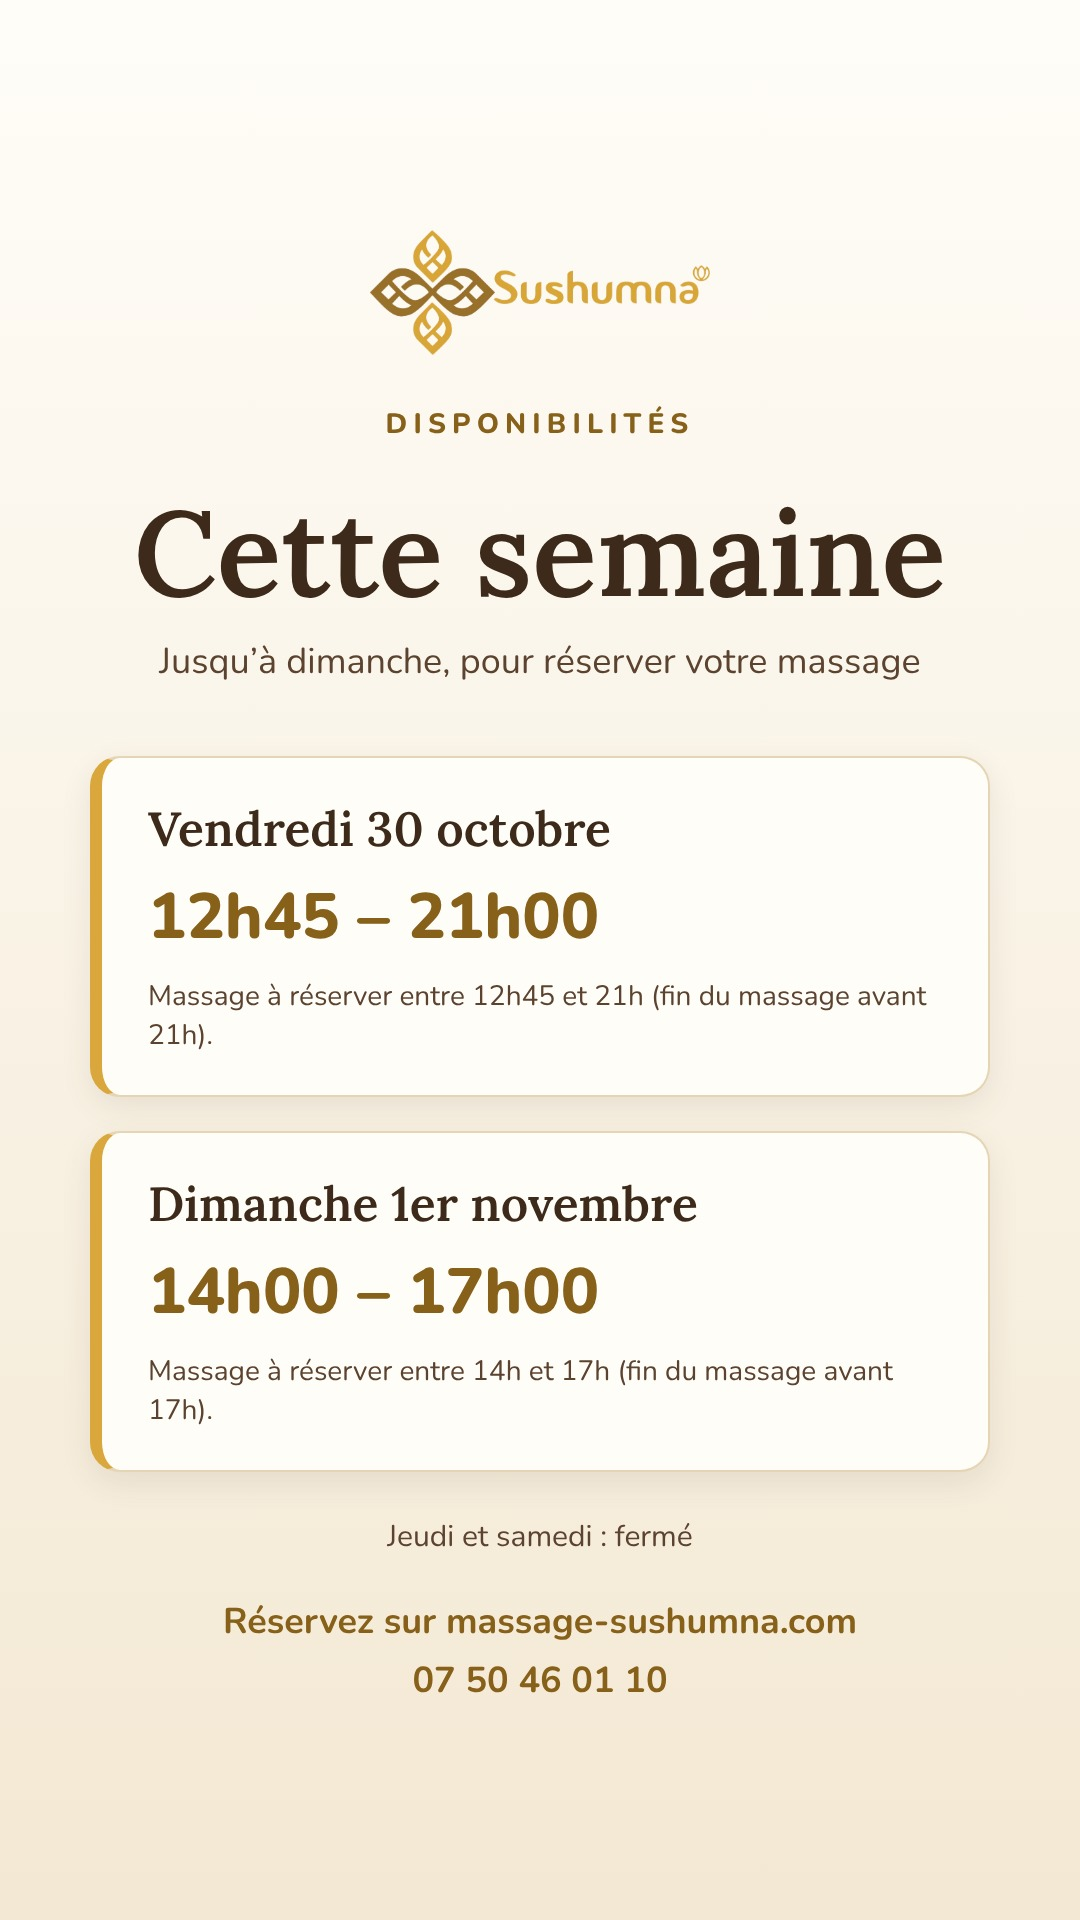
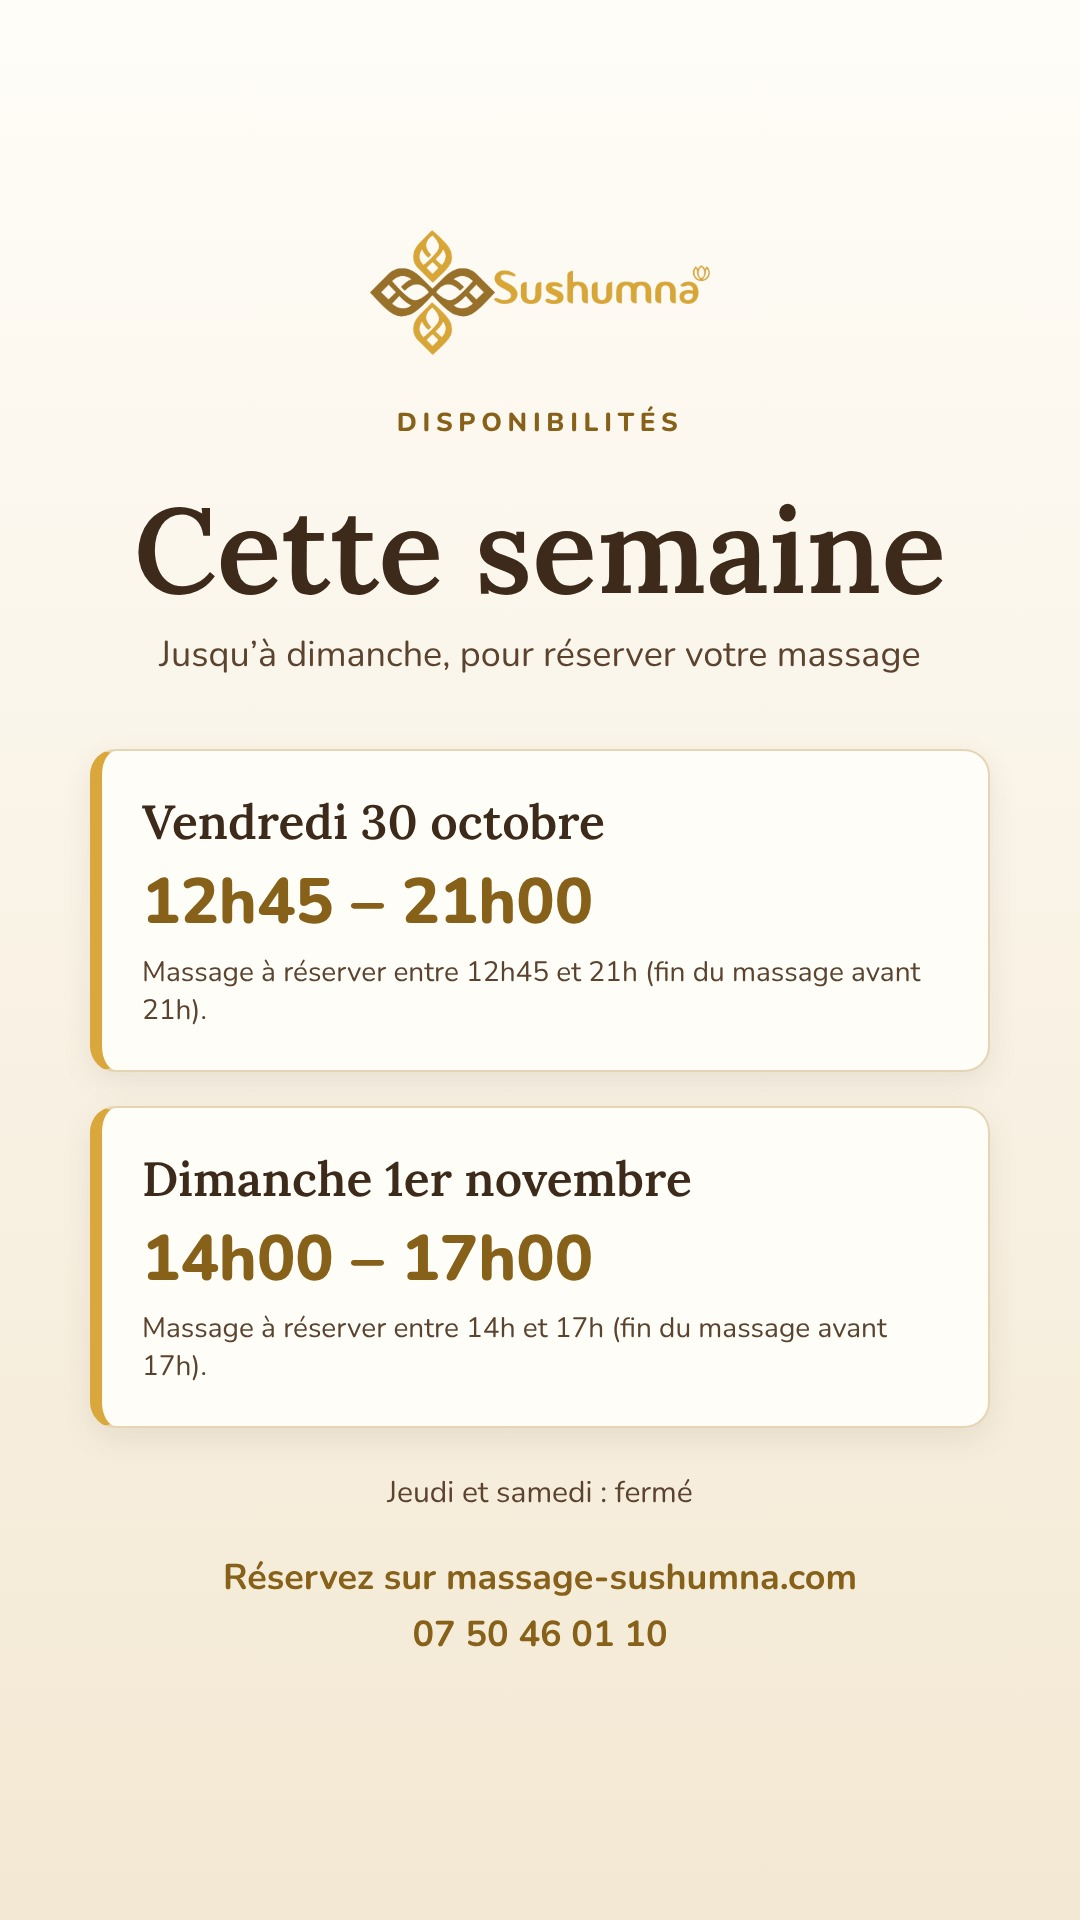
Graphisme : planning de la semaine prochaine en story (2 au 8 novembre)
Claude-Session: https://claude.ai/code/session_01FhKW6d7NffjTyYvYf6zG3G

diff --git a/graphisme/sources/65-planning-semaine-prochaine.html b/graphisme/sources/65-planning-semaine-prochaine.html
@@ -1,0 +1,61 @@
+<!doctype html>
+<html lang="fr">
+<head>
+<meta charset="utf-8">
+<meta name="viewport" content="width=device-width, initial-scale=1">
+<link rel="preconnect" href="https://fonts.googleapis.com">
+<link rel="preconnect" href="https://fonts.gstatic.com" crossorigin>
+<link href="https://fonts.googleapis.com/css2?family=Lora:ital,wght@0,500;0,600;1,500&family=Nunito:wght@400;600;700;800&family=Great+Vibes&display=swap" rel="stylesheet">
+<style>
+:root{--sable:#fbf6ec;--sable-2:#f3e8d3;--creme:#fffdf8;--bordure:#e6d5b5;--or:#d9a73b;--or-clair:#f6e3b4;
+--or-texte:#87601a;--brun:#3d2a1b;--brun-doux:#5c4330;--brun-logo:#9a712f;
+--titres:"Lora",Georgia,serif;--texte:"Nunito","Segoe UI",Arial,sans-serif;--script:"Great Vibes",cursive}
+*{box-sizing:border-box}
+html,body{margin:0;padding:0}
+body{width:var(--w);height:var(--h);overflow:hidden;background:var(--creme);color:var(--brun);font-family:var(--texte)}
+.page{position:relative;width:var(--w);height:var(--h);overflow:hidden;display:flex;flex-direction:column;align-items:center;justify-content:center;text-align:center}
+.ico{width:1em;height:1em;flex:none;color:var(--or-texte)}
+.titre{font-family:var(--titres);font-weight:600;line-height:1.15;margin:0;color:var(--brun)}
+.surtitre{margin:0;font-weight:800;text-transform:uppercase;letter-spacing:.22em;color:var(--or-texte)}
+.etoiles{margin:0;color:#b9801a;letter-spacing:.14em}
+.sous{margin:0;color:var(--brun-doux)}
+.page{justify-content:flex-start;padding:200px 90px 200px;background:linear-gradient(180deg,var(--creme) 0%,var(--sable-2) 100%)}
+.logo{width:260px;height:auto;align-self:center}
+.titre{font-size:96px;margin:26px 0 12px;text-align:center}
+.sous{font-size:32px;color:var(--brun-doux);margin:0 0 40px;text-align:center}
+.jour{width:100%;background:var(--creme);border:2px solid var(--bordure);border-left:12px solid var(--or);border-radius:26px;padding:24px 40px;margin-bottom:22px;text-align:left;box-shadow:0 10px 30px rgba(92,67,48,.10)}
+.jour h2{font-family:var(--titres);font-weight:600;font-size:38px;margin:0 0 6px;color:var(--brun)}
+.jour .horaires{font-size:52px;font-weight:800;color:var(--or-texte);margin:0 0 6px;line-height:1.15}
+.jour p{font-size:24px;line-height:1.35;color:var(--brun-doux);margin:0}
+.ferme{font-size:28px;color:var(--brun-doux);text-align:center;margin:4px 0 26px}</style>
+</head>
+<body style="--w:1080px;--h:1920px">
+<svg width="0" height="0" style="position:absolute" aria-hidden="true">
+  <symbol id="tel" viewBox="0 0 24 24"><path fill="none" stroke="currentColor" stroke-width="2" stroke-linecap="round" stroke-linejoin="round" d="M22 16.9v3a2 2 0 0 1-2.2 2 19.8 19.8 0 0 1-8.6-3.1 19.5 19.5 0 0 1-6-6A19.8 19.8 0 0 1 2.1 4.2 2 2 0 0 1 4.1 2h3a2 2 0 0 1 2 1.7c.1 1 .4 1.9.7 2.8a2 2 0 0 1-.5 2.1L8 9.9a16 16 0 0 0 6 6l1.3-1.3a2 2 0 0 1 2.1-.4c.9.3 1.8.6 2.8.7a2 2 0 0 1 1.7 2z"/></symbol>
+  <symbol id="mail" viewBox="0 0 24 24"><g fill="none" stroke="currentColor" stroke-width="2" stroke-linecap="round" stroke-linejoin="round"><rect x="2" y="4" width="20" height="16" rx="2"/><path d="m22 7-10 6L2 7"/></g></symbol>
+  <symbol id="whatsapp" viewBox="0 0 24 24"><g fill="none" stroke="currentColor" stroke-width="2" stroke-linecap="round" stroke-linejoin="round"><path d="M3 21l1.6-4.6A9 9 0 1 1 8 20.1z"/><path d="M9 8.5c0 3.5 3 6.5 6.5 6.5l1-1.5-2-1-1 .8a5 5 0 0 1-2.8-2.8l.8-1-1-2z"/></g></symbol>
+  <symbol id="instagram" viewBox="0 0 24 24"><g fill="none" stroke="currentColor" stroke-width="2" stroke-linecap="round" stroke-linejoin="round"><rect x="3" y="3" width="18" height="18" rx="5"/><circle cx="12" cy="12" r="4"/><circle cx="17.5" cy="6.5" r=".6" fill="currentColor"/></g></symbol>
+  <symbol id="lieu" viewBox="0 0 24 24"><g fill="none" stroke="currentColor" stroke-width="2" stroke-linecap="round" stroke-linejoin="round"><path d="M20 10c0 6-8 12-8 12S4 16 4 10a8 8 0 0 1 16 0z"/><circle cx="12" cy="10" r="3"/></g></symbol>
+  <symbol id="horloge" viewBox="0 0 24 24"><g fill="none" stroke="currentColor" stroke-width="2" stroke-linecap="round" stroke-linejoin="round"><circle cx="12" cy="12" r="10"/><path d="M12 6v6l4 2"/></g></symbol>
+  <symbol id="calendrier" viewBox="0 0 24 24"><g fill="none" stroke="currentColor" stroke-width="2" stroke-linecap="round" stroke-linejoin="round"><rect x="3" y="4" width="18" height="18" rx="2"/><path d="M16 2v4M8 2v4M3 10h18"/></g></symbol>
+  <symbol id="euro" viewBox="0 0 24 24"><path fill="none" stroke="currentColor" stroke-width="2" stroke-linecap="round" stroke-linejoin="round" d="M18 6.5A7 7 0 1 0 18 17.5M4 10h10M4 14h10"/></symbol>
+  <symbol id="check" viewBox="0 0 24 24"><path fill="none" stroke="currentColor" stroke-width="2.5" stroke-linecap="round" stroke-linejoin="round" d="M20 6 9 17l-5-5"/></symbol>
+  <symbol id="croix" viewBox="0 0 24 24"><path fill="none" stroke="currentColor" stroke-width="2.5" stroke-linecap="round" d="M18 6 6 18M6 6l12 12"/></symbol>
+  <symbol id="menu" viewBox="0 0 24 24"><path fill="none" stroke="currentColor" stroke-width="2.5" stroke-linecap="round" d="M3 6h18M3 12h18M3 18h18"/></symbol>
+  <symbol id="coeur" viewBox="0 0 24 24"><path fill="none" stroke="currentColor" stroke-width="2" stroke-linecap="round" stroke-linejoin="round" d="M20.8 4.6a5.5 5.5 0 0 0-7.8 0L12 5.7l-1-1.1a5.5 5.5 0 0 0-7.8 7.8l1 1.1L12 21l7.8-7.5 1-1.1a5.5 5.5 0 0 0 0-7.8z"/></symbol>
+  <symbol id="feuille" viewBox="0 0 24 24"><g fill="none" stroke="currentColor" stroke-width="2" stroke-linecap="round" stroke-linejoin="round"><path d="M11 20A7 7 0 0 1 9.8 6.1C15.5 5 17 4.5 19 2c1 2 2 4.2 2 8 0 5.5-4.8 10-10 10z"/><path d="M2 21c0-3 1.9-5.4 5.1-6C9.5 14.5 12 13 13 12"/></g></symbol>
+  <symbol id="discussion" viewBox="0 0 24 24"><path fill="none" stroke="currentColor" stroke-width="2" stroke-linecap="round" stroke-linejoin="round" d="M21 15a2 2 0 0 1-2 2H7l-4 4V5a2 2 0 0 1 2-2h14a2 2 0 0 1 2 2z"/></symbol>
+</svg>
+<div class="page"><img class="logo" src="../assets/logo-hd.png" alt="Sushumna">
+<p class="surtitre" style="font-size:26px;text-align:center;margin-top:30px">Disponibilités</p>
+<h1 class="titre">Semaine prochaine</h1>
+<p class="sous">Du 2 au 8 novembre, pour réserver votre massage</p>
+<div class="jour"><h2>Mardi 3 novembre</h2><p class="horaires">15h15 – 17h30</p><p>Massage à réserver entre 15h15 et 17h30 (fin du massage avant 17h30).</p></div>
+<div class="jour"><h2>Mercredi 4 novembre</h2><p class="horaires">12h30 – 18h00</p><p>Massage à réserver entre 12h30 et 18h (fin avant 18h), ou à 21h00.</p></div>
+<div class="jour"><h2>Vendredi 6 novembre</h2><p class="horaires">11h00 – 21h00</p><p>Massage à réserver entre 11h et 21h (fin du massage avant 21h).</p></div>
+<div class="jour"><h2>Dimanche 8 novembre</h2><p class="horaires">12h00 – 20h00</p><p>Massage à réserver entre 12h et 20h (fin du massage avant 20h).</p></div>
+<p class="ferme">Lundi, jeudi et samedi : fermé</p>
+<p class="sous" style="margin:0 0 8px;font-weight:700;color:var(--or-texte)">Réservez sur massage-sushumna.com</p>
+<p class="sous" style="margin:0;font-weight:700;color:var(--or-texte);white-space:nowrap">07 50 46 01 10</p></div>
+</body>
+</html>

diff --git a/graphisme/generer.js b/graphisme/generer.js
@@ -612,35 +612,54 @@ CARROUSELS_QUESTIONS.forEach((carrousel, c) => {
   });
 });
 
-/* ---------- 64. Planning de la semaine jusqu'à dimanche (story 1080 × 1920) ----------
-   Créneaux calculés à partir de mes-contenus/planning.js (jeudi 29/10/2026).
-   À mettre à jour à chaque nouvelle semaine. */
-const PLANNING_SEMAINE = [
-  { jour: 'Vendredi 30 octobre', horaires: '12h45 – 21h00', detail: 'Massage à réserver entre 12h45 et 21h (fin du massage avant 21h).' },
-  { jour: 'Dimanche 1er novembre', horaires: '14h00 – 17h00', detail: 'Massage à réserver entre 14h et 17h (fin du massage avant 17h).' },
-];
-PAGES.push({
-  nom: '64-planning-semaine', w: 1080, h: 1920, echelle: 1,
-  html: document_({ w: 1080, h: 1920,
-    css: `.page{justify-content:flex-start;padding:230px 90px 230px;background:linear-gradient(180deg,var(--creme) 0%,var(--sable-2) 100%)}
-.logo{width:340px;height:auto;align-self:center}
-.titre{font-size:120px;margin:40px 0 16px;text-align:center}
-.sous{font-size:36px;color:var(--brun-doux);margin:0 0 70px;text-align:center}
-.jour{width:100%;background:var(--creme);border:2px solid var(--bordure);border-left:12px solid var(--or);border-radius:30px;padding:40px 46px;margin-bottom:34px;text-align:left;box-shadow:0 10px 30px rgba(92,67,48,.10)}
-.jour h2{font-family:var(--titres);font-weight:600;font-size:48px;margin:0 0 14px;color:var(--brun)}
-.jour .horaires{font-size:64px;font-weight:800;color:var(--or-texte);margin:0 0 14px}
-.jour p{font-size:28px;line-height:1.4;color:var(--brun-doux);margin:0}
-.pied-story{margin-top:auto;width:240px;height:auto;align-self:center}
-.ferme{font-size:30px;color:var(--brun-doux);text-align:center;margin:10px 0 40px}`,
-    body: `<img class="logo" src="../assets/logo-hd.png" alt="Sushumna">
-<p class="surtitre" style="font-size:28px;text-align:center;margin-top:50px">Disponibilités</p>
-<h1 class="titre">Cette semaine</h1>
-<p class="sous">Jusqu’à dimanche, pour réserver votre massage</p>
-${PLANNING_SEMAINE.map((j) => `<div class="jour"><h2>${j.jour}</h2><p class="horaires">${j.horaires}</p><p>${j.detail}</p></div>`).join('\n')}
-<p class="ferme">Jeudi et samedi : fermé</p>
-<p class="sous" style="margin:0 0 10px;font-weight:700;color:var(--or-texte)">Réservez sur massage-sushumna.com</p>
-<p class="sous" style="margin:0 0 30px;font-weight:700;color:var(--or-texte);white-space:nowrap">07 50 46 01 10</p>` }),
-});
+/* ---------- 64 et suivants. Planning de la semaine en story (1080 × 1920) ----------
+   Créneaux calculés à partir de mes-contenus/planning.js (horaires habituels,
+   jours particuliers, massages réservés, pause de 15 min après chaque massage).
+   À refaire à chaque nouvelle semaine. */
+function pagePlanning({ nom, titre, sous, jours, ferme }) {
+  const compact = jours.length > 2;
+  return {
+    nom, w: 1080, h: 1920, echelle: 1,
+    html: document_({ w: 1080, h: 1920,
+      css: `.page{justify-content:flex-start;padding:${compact ? 200 : 230}px 90px 200px;background:linear-gradient(180deg,var(--creme) 0%,var(--sable-2) 100%)}
+.logo{width:${compact ? 260 : 340}px;height:auto;align-self:center}
+.titre{font-size:${compact ? 96 : 120}px;margin:${compact ? 26 : 40}px 0 12px;text-align:center}
+.sous{font-size:${compact ? 32 : 36}px;color:var(--brun-doux);margin:0 0 ${compact ? 40 : 70}px;text-align:center}
+.jour{width:100%;background:var(--creme);border:2px solid var(--bordure);border-left:12px solid var(--or);border-radius:26px;padding:${compact ? 24 : 40}px 40px;margin-bottom:${compact ? 22 : 34}px;text-align:left;box-shadow:0 10px 30px rgba(92,67,48,.10)}
+.jour h2{font-family:var(--titres);font-weight:600;font-size:${compact ? 38 : 48}px;margin:0 0 ${compact ? 6 : 14}px;color:var(--brun)}
+.jour .horaires{font-size:${compact ? 52 : 64}px;font-weight:800;color:var(--or-texte);margin:0 0 ${compact ? 6 : 14}px;line-height:1.15}
+.jour p{font-size:${compact ? 24 : 28}px;line-height:1.35;color:var(--brun-doux);margin:0}
+.ferme{font-size:${compact ? 28 : 30}px;color:var(--brun-doux);text-align:center;margin:${compact ? 4 : 10}px 0 ${compact ? 26 : 40}px}`,
+      body: `<img class="logo" src="../assets/logo-hd.png" alt="Sushumna">
+<p class="surtitre" style="font-size:26px;text-align:center;margin-top:${compact ? 30 : 50}px">Disponibilités</p>
+<h1 class="titre">${titre}</h1>
+<p class="sous">${sous}</p>
+${jours.map((j) => `<div class="jour"><h2>${j.jour}</h2><p class="horaires">${j.horaires}</p><p>${j.detail}</p></div>`).join('\n')}
+<p class="ferme">${ferme}</p>
+<p class="sous" style="margin:0 0 8px;font-weight:700;color:var(--or-texte)">Réservez sur massage-sushumna.com</p>
+<p class="sous" style="margin:0;font-weight:700;color:var(--or-texte);white-space:nowrap">${CONTACT.tel}</p>` }),
+  };
+}
+
+PAGES.push(pagePlanning({
+  nom: '64-planning-semaine', titre: 'Cette semaine', sous: 'Jusqu’à dimanche, pour réserver votre massage',
+  ferme: 'Jeudi et samedi : fermé',
+  jours: [
+    { jour: 'Vendredi 30 octobre', horaires: '12h45 – 21h00', detail: 'Massage à réserver entre 12h45 et 21h (fin du massage avant 21h).' },
+    { jour: 'Dimanche 1er novembre', horaires: '14h00 – 17h00', detail: 'Massage à réserver entre 14h et 17h (fin du massage avant 17h).' },
+  ],
+}));
+
+PAGES.push(pagePlanning({
+  nom: '65-planning-semaine-prochaine', titre: 'Semaine prochaine', sous: 'Du 2 au 8 novembre, pour réserver votre massage',
+  ferme: 'Lundi, jeudi et samedi : fermé',
+  jours: [
+    { jour: 'Mardi 3 novembre', horaires: '15h15 – 17h30', detail: 'Massage à réserver entre 15h15 et 17h30 (fin du massage avant 17h30).' },
+    { jour: 'Mercredi 4 novembre', horaires: '12h30 – 18h00', detail: 'Massage à réserver entre 12h30 et 18h (fin avant 18h), ou à 21h00.' },
+    { jour: 'Vendredi 6 novembre', horaires: '11h00 – 21h00', detail: 'Massage à réserver entre 11h et 21h (fin du massage avant 21h).' },
+    { jour: 'Dimanche 8 novembre', horaires: '12h00 – 20h00', detail: 'Massage à réserver entre 12h et 20h (fin du massage avant 20h).' },
+  ],
+}));
 
 /* ---------- Rendu ---------- */
 (async () => {
@@ -648,7 +667,9 @@ ${PLANNING_SEMAINE.map((j) => `<div class="jour"><h2>${j.jour}</h2><p class="hor
   fs.mkdirSync(JPEG, { recursive: true });
   const navigateur = await chromium.launch({ args: ['--no-sandbox'], executablePath: process.env.CHROMIUM_PATH || undefined });
   try {
+    const seulement = (process.env.ONLY || '').split(',').filter(Boolean);
     for (const p of PAGES) {
+      if (seulement.length && !seulement.some((n) => p.nom.startsWith(n))) continue;
       const fichierHtml = path.join(SOURCES, `${p.nom}.html`);
       fs.mkdirSync(path.dirname(fichierHtml), { recursive: true });
       fs.mkdirSync(path.dirname(path.join(JPEG, `${p.nom}.jpg`)), { recursive: true });

diff --git a/graphisme/sources/64-planning-semaine.html b/graphisme/sources/64-planning-semaine.html
@@ -19,15 +19,14 @@ body{width:var(--w);height:var(--h);overflow:hidden;background:var(--creme);colo
 .surtitre{margin:0;font-weight:800;text-transform:uppercase;letter-spacing:.22em;color:var(--or-texte)}
 .etoiles{margin:0;color:#b9801a;letter-spacing:.14em}
 .sous{margin:0;color:var(--brun-doux)}
-.page{justify-content:flex-start;padding:230px 90px 230px;background:linear-gradient(180deg,var(--creme) 0%,var(--sable-2) 100%)}
+.page{justify-content:flex-start;padding:230px 90px 200px;background:linear-gradient(180deg,var(--creme) 0%,var(--sable-2) 100%)}
 .logo{width:340px;height:auto;align-self:center}
-.titre{font-size:120px;margin:40px 0 16px;text-align:center}
+.titre{font-size:120px;margin:40px 0 12px;text-align:center}
 .sous{font-size:36px;color:var(--brun-doux);margin:0 0 70px;text-align:center}
-.jour{width:100%;background:var(--creme);border:2px solid var(--bordure);border-left:12px solid var(--or);border-radius:30px;padding:40px 46px;margin-bottom:34px;text-align:left;box-shadow:0 10px 30px rgba(92,67,48,.10)}
+.jour{width:100%;background:var(--creme);border:2px solid var(--bordure);border-left:12px solid var(--or);border-radius:26px;padding:40px 40px;margin-bottom:34px;text-align:left;box-shadow:0 10px 30px rgba(92,67,48,.10)}
 .jour h2{font-family:var(--titres);font-weight:600;font-size:48px;margin:0 0 14px;color:var(--brun)}
-.jour .horaires{font-size:64px;font-weight:800;color:var(--or-texte);margin:0 0 14px}
-.jour p{font-size:28px;line-height:1.4;color:var(--brun-doux);margin:0}
-.pied-story{margin-top:auto;width:240px;height:auto;align-self:center}
+.jour .horaires{font-size:64px;font-weight:800;color:var(--or-texte);margin:0 0 14px;line-height:1.15}
+.jour p{font-size:28px;line-height:1.35;color:var(--brun-doux);margin:0}
 .ferme{font-size:30px;color:var(--brun-doux);text-align:center;margin:10px 0 40px}</style>
 </head>
 <body style="--w:1080px;--h:1920px">
@@ -48,13 +47,13 @@ body{width:var(--w);height:var(--h);overflow:hidden;background:var(--creme);colo
   <symbol id="discussion" viewBox="0 0 24 24"><path fill="none" stroke="currentColor" stroke-width="2" stroke-linecap="round" stroke-linejoin="round" d="M21 15a2 2 0 0 1-2 2H7l-4 4V5a2 2 0 0 1 2-2h14a2 2 0 0 1 2 2z"/></symbol>
 </svg>
 <div class="page"><img class="logo" src="../assets/logo-hd.png" alt="Sushumna">
-<p class="surtitre" style="font-size:28px;text-align:center;margin-top:50px">Disponibilités</p>
+<p class="surtitre" style="font-size:26px;text-align:center;margin-top:50px">Disponibilités</p>
 <h1 class="titre">Cette semaine</h1>
 <p class="sous">Jusqu’à dimanche, pour réserver votre massage</p>
 <div class="jour"><h2>Vendredi 30 octobre</h2><p class="horaires">12h45 – 21h00</p><p>Massage à réserver entre 12h45 et 21h (fin du massage avant 21h).</p></div>
 <div class="jour"><h2>Dimanche 1er novembre</h2><p class="horaires">14h00 – 17h00</p><p>Massage à réserver entre 14h et 17h (fin du massage avant 17h).</p></div>
 <p class="ferme">Jeudi et samedi : fermé</p>
-<p class="sous" style="margin:0 0 10px;font-weight:700;color:var(--or-texte)">Réservez sur massage-sushumna.com</p>
-<p class="sous" style="margin:0 0 30px;font-weight:700;color:var(--or-texte);white-space:nowrap">07 50 46 01 10</p></div>
+<p class="sous" style="margin:0 0 8px;font-weight:700;color:var(--or-texte)">Réservez sur massage-sushumna.com</p>
+<p class="sous" style="margin:0;font-weight:700;color:var(--or-texte);white-space:nowrap">07 50 46 01 10</p></div>
 </body>
 </html>
